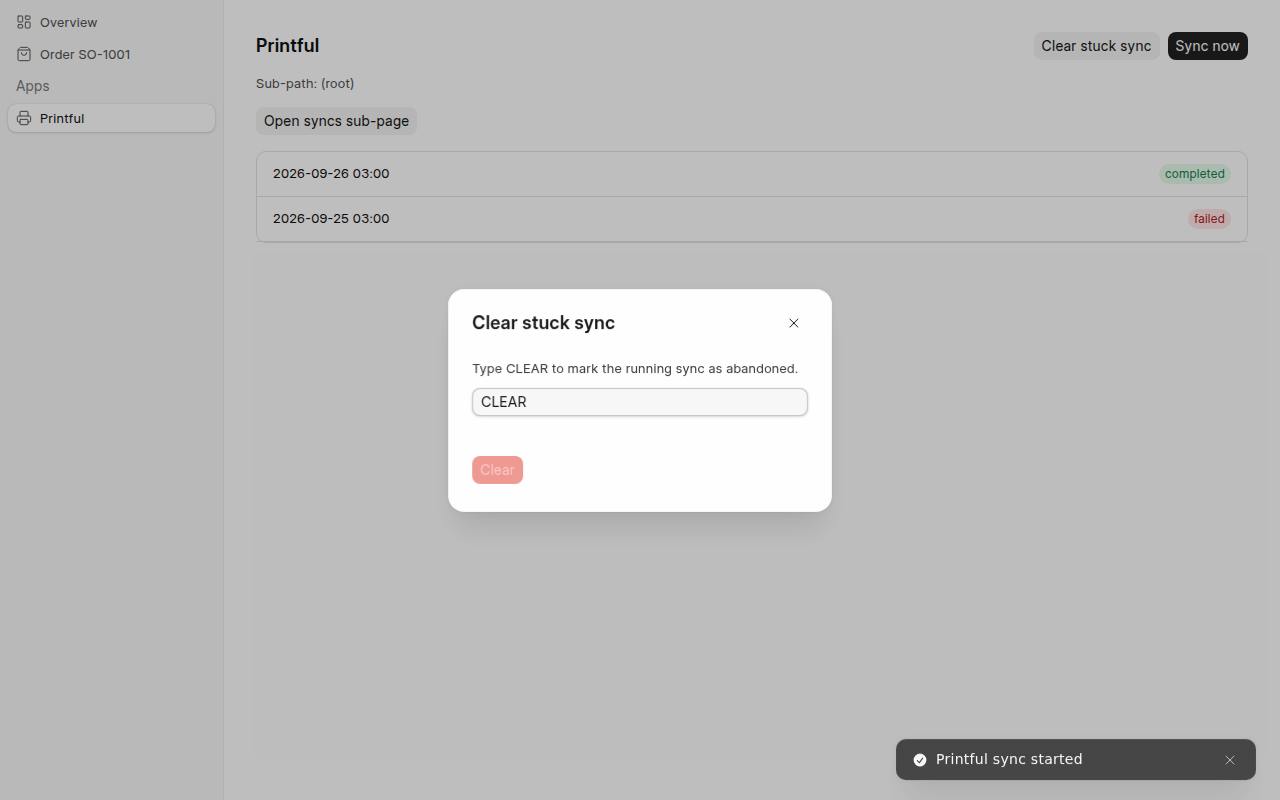
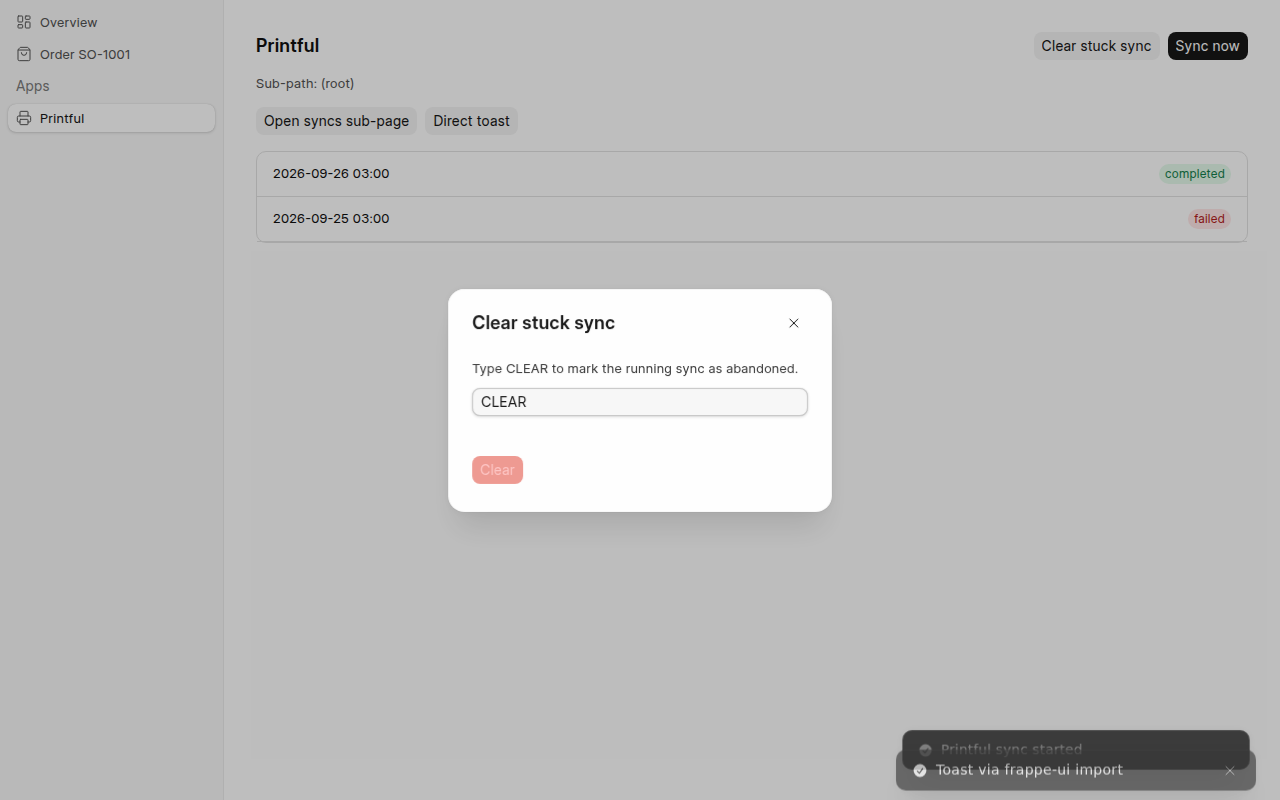
docs(poc): share all of frappe-ui with extensions, not a curated list
Measured on the real dashboard build: sharing every frappe-ui export adds
15 kB gzip to first load, and a curated list would save only 2 kB of it.
An experiment builds the Printful app with its own bundled frappe-ui and
shows a toast imported from 'frappe-ui' never appears, which is why the
copy is shared rather than bundled. verify.mjs now covers the direct
import (15/15).

Claude-Session: https://claude.ai/code/session_01TrND1hFCM5dU8XfF7M38Jq

Changed region(s): [[0.6875, 0.9062, 1.0, 1.0], [0.3438, 0.125, 0.4062, 0.1562]]

diff --git a/poc/extension-runtime/kit/vite.js b/poc/extension-runtime/kit/vite.js
@@ -29,7 +29,7 @@ function staticClasses(source) {
   return [...template.matchAll(/\sclass="([^"]*)"/g)].flatMap((match) => match[1].split(/\s+/)).filter(Boolean)
 }
 
-function guard({ hostClasses, hostExports }) {
+function guard({ hostClasses, hostExports, bundleFrappeUI }) {
   const known = hostClasses && existsSync(hostClasses) ? new Set(JSON.parse(readFileSync(hostClasses, 'utf8'))) : null
   const shared = hostExports && existsSync(hostExports) ? JSON.parse(readFileSync(hostExports, 'utf8')) : null
   return {
@@ -53,12 +53,12 @@ function guard({ hostClasses, hostExports }) {
     resolveId(source) {
       // The import map shares the package roots only; a subpath would pull a
       // second copy of the library into the extension.
-      if (SHARED.some((name) => source.startsWith(`${name}/`))) {
+      if (!bundleFrappeUI && SHARED.some((name) => source.startsWith(`${name}/`))) {
         this.error(`import '${source}' is not shared with extensions; import from '${source.split('/')[0]}'`)
       }
     },
     transform(code, id) {
-      if (id.includes('?vue&type=style')) {
+      if (id.includes('?vue&type=style') && !id.includes('/node_modules/')) {
         this.error(`${id.split('?')[0]}: extensions ship no CSS in v1; use frappe-ui and dashboard classes`)
       }
       if (!known || !id.endsWith('.vue')) return
@@ -70,11 +70,13 @@ function guard({ hostClasses, hostExports }) {
   }
 }
 
-export default function commeraExtension({ root = process.cwd(), hostClasses, hostExports } = {}) {
+export default function commeraExtension({ root = process.cwd(), hostClasses, hostExports, bundleFrappeUI = false } = {}) {
+  // Experiment switch: bundle frappe-ui into the extension instead of sharing the host's.
+  const external = bundleFrappeUI ? SHARED.filter((name) => name !== 'frappe-ui') : SHARED
   const sourceDir = resolve(root, 'commera')
   const modules = discoverModules(sourceDir)
   return [
-    guard({ hostClasses, hostExports }),
+    guard({ hostClasses, hostExports, bundleFrappeUI }),
     vue(),
     {
       name: 'commera-extension-build',
@@ -88,7 +90,7 @@ export default function commeraExtension({ root = process.cwd(), hostClasses, ho
           minify: true,
           lib: { entry: modules, formats: ['es'], fileName: (_format, name) => `${name}.js` },
           rollupOptions: {
-            external: SHARED,
+            external,
             output: {
               banner: `/*! commera-extension-api: ${API_VERSION} */`,
               chunkFileNames: 'chunks/[name]-[hash].js',

diff --git a/poc/extension-runtime/apps/printful/commera/printful-page/index.vue b/poc/extension-runtime/apps/printful/commera/printful-page/index.vue
@@ -1,6 +1,6 @@
 <script setup>
 import { ref } from 'vue'
-import { Badge, Button, Dialog, FormControl } from 'frappe-ui'
+import { Badge, Button, Dialog, FormControl, toast as frappeToast } from 'frappe-ui'
 import { useExtension, useMethodAction, useMethodRead } from '@commera/admin'
 import { statusTheme } from '../shared/status.js'
 
@@ -32,6 +32,9 @@ const confirmation = ref('')
     <p class="text-sm text-ink-gray-6">Sub-path: {{ path || '(root)' }}</p>
     <div class="flex gap-2">
       <Button label="Open syncs sub-page" @click="navigate('syncs')" />
+      <!-- frappe-ui imported directly, not through useExtension(): only shows
+           because the extension shares the host's frappe-ui instance. -->
+      <Button label="Direct toast" @click="frappeToast.success('Toast via frappe-ui import')" />
     </div>
 
     <section class="rounded-5 border border-outline-gray-2">

diff --git a/poc/extension-runtime/host/src/runtime/frappe-ui.js b/poc/extension-runtime/host/src/runtime/frappe-ui.js
@@ -1,21 +1,6 @@
-// The frappe-ui surface extensions may import. Curated rather than `export *`:
-// re-exporting the whole library defeats tree-shaking and costs every page
-// ~150 kB gzip (measured in this POC). The kit refuses imports outside this list.
-export {
-  Avatar,
-  Badge,
-  Button,
-  Checkbox,
-  Dialog,
-  Dropdown,
-  FormControl,
-  LoadingIndicator,
-  Select,
-  Switch,
-  TabButtons,
-  TextInput,
-  Textarea,
-  Tooltip,
-  toast,
-  useCall,
-} from 'frappe-ui'
+// All of frappe-ui is shared: extensions import any name, no list to maintain.
+// Measured on the real Commera dashboard, this costs 15 kB gzip on first load
+// over no sharing, and a curated list would save only 2 kB of it, because the
+// dashboard already uses most of frappe-ui. (This toy host uses little of it,
+// so here the cost looks far larger; see README.)
+export * from 'frappe-ui'

diff --git a/poc/extension-runtime/apps/printful/commera/vite.bundled.config.js b/poc/extension-runtime/apps/printful/commera/vite.bundled.config.js
@@ -1,0 +1,13 @@
+// Experiment: the same app, but with its own copy of frappe-ui bundled in.
+import { defineConfig } from 'vite'
+import { fileURLToPath } from 'node:url'
+import frappeui from 'frappe-ui/vite'
+import commera from '@commera/extension-kit/vite'
+
+export default defineConfig({
+  define: { 'process.env.NODE_ENV': JSON.stringify('production') },
+  plugins: [
+    frappeui({ frappeProxy: false, jinjaBootData: false, buildConfig: false }),
+    ...commera({ root: fileURLToPath(new URL('..', import.meta.url)), bundleFrappeUI: true }),
+  ],
+})

diff --git a/poc/extension-runtime/apps/printful/commera/components.d.ts b/poc/extension-runtime/apps/printful/commera/components.d.ts
@@ -1,0 +1,17 @@
+/* eslint-disable */
+// @ts-nocheck
+// biome-ignore lint: disable
+// oxlint-disable
+// ------
+// Generated by unplugin-vue-components
+// Read more: https://github.com/vuejs/core/pull/3399
+
+export {}
+
+/* prettier-ignore */
+declare module 'vue' {
+  export interface GlobalComponents {
+    RouterLink: typeof import('vue-router')['RouterLink']
+    RouterView: typeof import('vue-router')['RouterView']
+  }
+}

diff --git a/poc/extension-runtime/apps/printful/commera/auto-imports.d.ts b/poc/extension-runtime/apps/printful/commera/auto-imports.d.ts
@@ -1,0 +1,10 @@
+/* eslint-disable */
+/* prettier-ignore */
+// @ts-nocheck
+// noinspection JSUnusedGlobalSymbols
+// Generated by unplugin-auto-import
+// biome-ignore lint: disable
+export {}
+declare global {
+
+}

diff --git a/poc/extension-runtime/README.md b/poc/extension-runtime/README.md
@@ -27,7 +27,7 @@ measure*.mjs bundle-size measurements
 ```bash
 npm install
 npm run build        # host once, then each app on its own
-npm run verify       # 14 checks, screenshots in ./screenshots
+npm run verify       # 15 checks, screenshots in ./screenshots
 npm run serve        # http://localhost:4173 to click around
 node measure.mjs && node measure-transfer.mjs
 ```
@@ -37,14 +37,14 @@ untouched, because the server stamps each module URL with `?v=<mtime>`.
 
 ## What it proved
 
-`npm run verify`, all passing:
+`npm run verify`, all 15 passing:
 
 | Claim | How it is checked |
 | --- | --- |
 | An app adds a sidebar link to a host built without it | Link from `apps/printful/extensions.json` renders in the host's Apps section |
 | Extension modules load from the app's own folder | `/assets/printful/commera/printful-page.js` fetched at runtime |
 | Extensions use the host's data helpers | `useMethodRead` (frappe-ui `useCall`) from `@commera/admin` returns mock data |
-| One frappe-ui instance | A `toast()` raised in the extension renders in the host's `FrappeUIProvider` toaster (vue-sonner state is module-level) |
+| One frappe-ui instance | A `toast()` raised in the extension — from `useExtension()` or imported straight from `frappe-ui` — renders in the host's `FrappeUIProvider` toaster (vue-sonner state is module-level) |
 | Overlays work | A frappe-ui `Dialog` from the extension opens, takes input and closes |
 | One Vue instance | The order block reads `resource` through `inject()` of a key the host `provide()`s — impossible across two Vue copies |
 | `navigate()` / `setTitle()` | Sub-route `/apps/printful/printful/syncs`; document title set |
@@ -55,26 +55,43 @@ untouched, because the server stamps each module URL with `?v=<mtime>`.
 Build-time guards in the kit, each seen failing on purpose:
 
 - A class the host does not ship: `classes the dashboard does not ship: space-y-6, rounded-lg`
-- A frappe-ui name the host does not share: `'frappe-ui' does not share Calendar with extensions`
+- A frappe-ui name the host's frappe-ui version does not export (an app built against a newer
+  frappe-ui): `'frappe-ui' does not share Calendar with extensions`
 - A `<style>` block, or a `frappe-ui/…` subpath import
 
 ![order page](screenshots/4-order-blocks.png)
 
-## What it costs
+## Why share frappe-ui instead of bundling it
 
-The shared runtime is not free: an entry that re-exports a library keeps all of it.
+Extensions import anything from `frappe-ui` as usual. The only question is whose copy they get.
 
-| Host build | Total JS (gzip) | `/` downloads (gzip) | Page with an extension (gzip) |
-| --- | --- | --- | --- |
-| No shared runtime (baseline) | 94.8 kB | — | — |
-| `export * from 'frappe-ui'` | 246.1 kB | 171.1 kB | 246.2 kB |
-| Curated frappe-ui list (16 names) | 194.3 kB | **111.0 kB** | 194.5 kB |
+`node experiment-bundled-toast.mjs` builds the Printful app both ways:
 
-So the frappe-ui surface extensions may import must be a **curated list**, not `export *`
-(`host/src/runtime/frappe-ui.js`). The remaining extension-page cost is frappe-ui components this toy
-host does not use itself (Select, Dropdown, Tooltip…); the real dashboard already ships nearly all of
-them, so its delta should be close to the 16 kB seen on `/`. Measure again against the real dashboard
-in P0.
+| Build | Printful page module | `toast` imported from `'frappe-ui'` |
+| --- | --- | --- |
+| Bundled frappe-ui | 431 kB (97 kB gzip) | **Never shows** — it writes to the extension's own vue-sonner state, which no toaster renders |
+| Shared frappe-ui (import map) | 3.2 kB (1.3 kB gzip) | Shows in the host's toaster |
+
+The same applies to everything in frappe-ui that keeps module-level state or provide/inject keys
+(`dialog()` helpers, resource caches, provider context). A bundled copy also drifts from the host's
+version, and its component CSS (emitted as `style.css`) is never loaded by the host.
+
+## What sharing costs
+
+Sharing all of frappe-ui (`export * from 'frappe-ui'`) keeps every export alive, so it costs the host
+some tree-shaking. Measured on the **real Commera dashboard** (production build, JS loaded before the
+first route):
+
+| Dashboard build | First load (gzip) | All JS (gzip) |
+| --- | --- | --- |
+| No shared runtime | 289 kB | 898 kB |
+| Shared: the 57 frappe-ui names the dashboard itself imports | 302 kB | 919 kB |
+| Shared: all of frappe-ui | 304 kB | 949 kB |
+
+So there is **no curated list**: a list would save 2 kB gzip on first load and cost every extension
+author a list to check. This toy host uses little of frappe-ui, so here the same `export *` looks far
+more expensive (95 → 171 kB gzip on `/`, from `node measure-transfer.mjs`); that number does not
+transfer to the real dashboard.
 
 ## Not covered
 

diff --git a/docs/specs/commera-apps/02-platform-implementation.md b/docs/specs/commera-apps/02-platform-implementation.md
@@ -137,12 +137,13 @@ Absent row = enabled. Written from **Settings → Installed apps**.
   one instance of each.
 - A small Vite plugin writes `<script type="importmap">` into `commera/www/commera.html` before the
   entry script, mapping `vue`, `frappe-ui`, `@commera/admin` to those hashed files.
-- **The frappe-ui entry is a curated export list, not `export *`.** The front-end POC
-  (`poc/extension-runtime/`) measured `export *` at +76 kB gzip on a page with no extensions; a
-  16-name list cut that to +16 kB. Heavy subpaths (editor, charts) stay unshared until an extension
-  needs them.
+- **All of frappe-ui is shared (`export *`), not a curated list.** Measured on the real dashboard
+  build: +15 kB gzip on first load over no sharing; a list of the 57 names the dashboard imports would
+  save only 2 kB of that. Bundling frappe-ui into extensions instead breaks module-level state: a
+  `toast` imported from `frappe-ui` never shows (`poc/extension-runtime/experiment-bundled-toast.mjs`).
 - The build also emits `shared-exports.json` (each shared specifier's export names, read from the
-  runtime chunks), which the kit checks extension imports against.
+  runtime chunks). The kit checks extension imports against it, which catches an app built against a
+  newer frappe-ui than the site runs.
 
 ### 2.2 `@commera/admin` — `dashboard/src/extension-api/index.js`
 

diff --git a/docs/specs/commera-apps/01-developer-api.md b/docs/specs/commera-apps/01-developer-api.md
@@ -129,9 +129,9 @@ A **block** may also hide itself by rendering nothing; the slot collapses with n
 
 An extension module is a Vue SFC whose default export is the component. It imports from three
 shared modules only — `vue`, `frappe-ui`, `@commera/admin` — which resolve to the dashboard's own
-copies at runtime. Anything else it imports is bundled into the extension. From `frappe-ui`, only the
-curated list the dashboard shares may be imported (the kit's build fails on any other name, and on
-`frappe-ui/…` subpaths).
+copies at runtime. Anything else it imports is bundled into the extension. Anything `frappe-ui` exports may
+be imported; the kit's build fails on a name the site's frappe-ui version does not export, and on
+`frappe-ui/…` subpaths.
 
 ```vue
 <!-- my_app/commera/loyalty-order-block/index.vue -->
